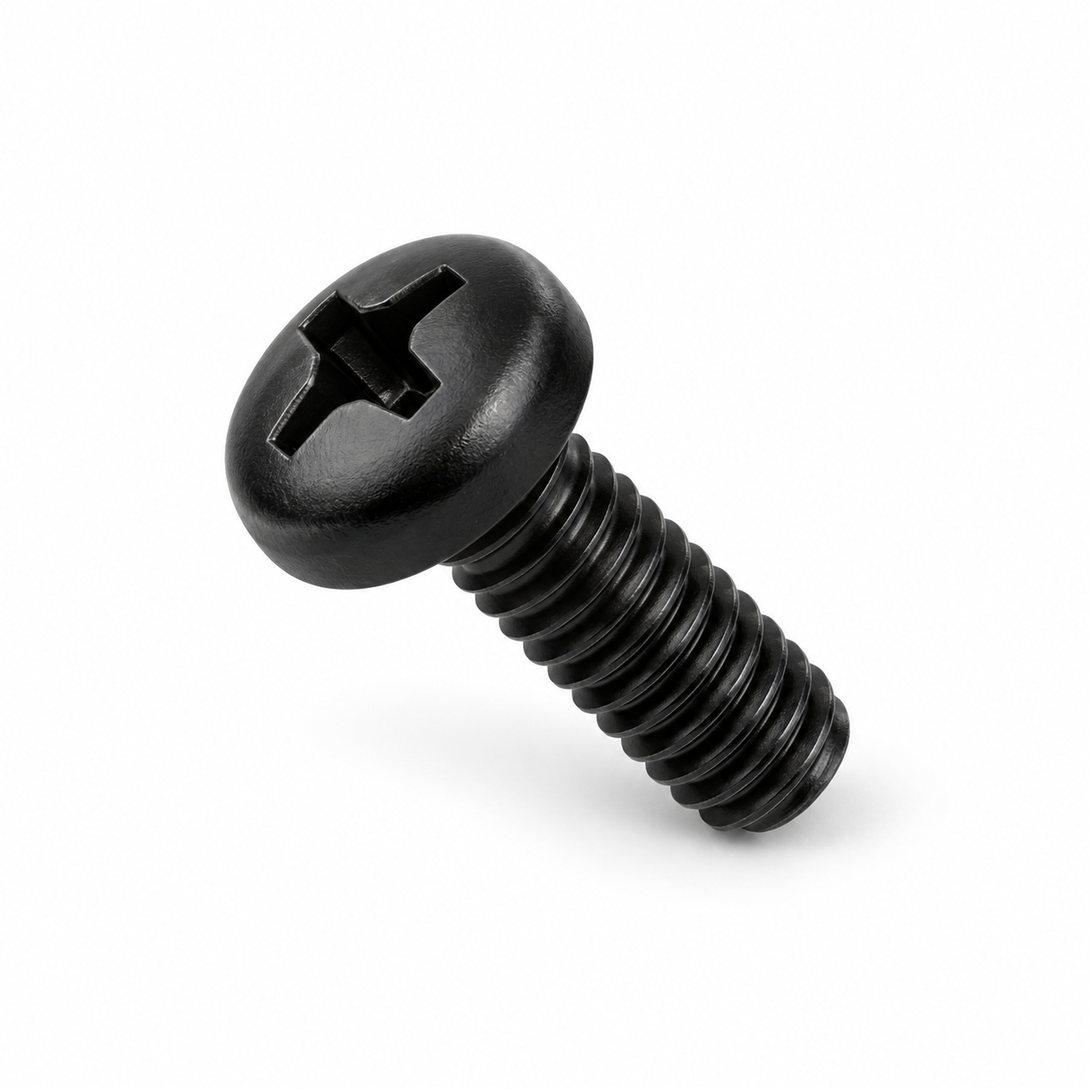
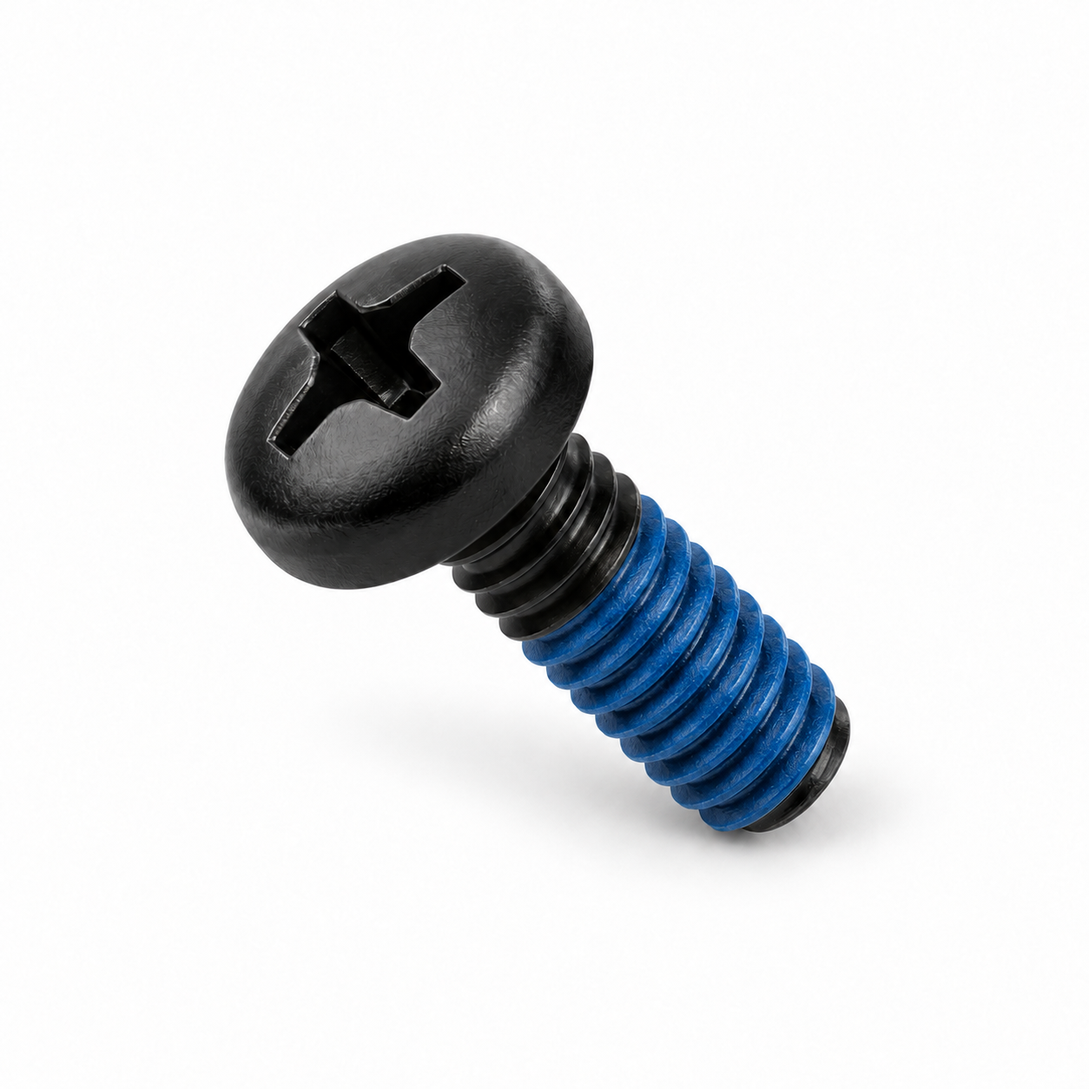
Sort BOM fasteners and complete their illustrations
Group socket-head and Phillips screws by descending length, followed by
nuts and washers, across all three bilingual hardware BOMs. Preserve
quantities and renumber the reordered items.

Add five shared fastener illustrations, identify PB2.0 x 5 as pan-head,
and depict blue pre-applied threadlocker on the lower two-thirds of the
M2 x 4.5 screw threads with matching English and Chinese descriptions.

Validation: check_docs.py, check_readme_sync.py, staged diff whitespace,
fastener order and quantity checks, and visual review of all six images.

diff --git a/hardware/102-fl/README.md b/hardware/102-fl/README.md
@@ -36,7 +36,7 @@ The table below lists **29 assembly items** for 102-FL. Missing images are marke
 
 Printed-part identifiers in Model / Specification match the STEP, STL, and individual 3MF filenames (without extensions). Print settings in this BOM are references pending physical print validation. The BOM specifies 5 wall loops / 50% infill for link1, while the supplied 3MF uses 2 / 15%; confirm before printing.
 
-Screw images are AI-generated illustrations; refer to the table text for specifications. Click an image to enlarge it.
+Fastener images are AI-generated illustrations; refer to the table text for specifications. Click an image to enlarge it.
 
 | No. | Part Name | Model / Specification | Image | Description | Quantity |
 | :---: | --- | --- | :---: | --- | :---: |
@@ -59,15 +59,15 @@ Screw images are AI-generated illustrations; refer to the table text for specifi
 | 17 | Circuit board | UC-01 | <img src="../../media/uc-01-primary.webp" alt="UC-01" width="90"> | XT30 connector | 1 |
 | 18 | Servo cable | PH2.0 (PH-3Y)<br>120 mm | <a href="../../media/ph-3y-servo-cable-120mm.png"><img src="../../media/ph-3y-servo-cable-120mm.png" alt="PH2.0 120 mm servo cable" width="90"></a> | Black silicone-insulated ribbon cable with black braided sleeving; reversed pin order between ends; 60 × Ø0.08 mm strands per conductor (approx. 22 AWG) | 4 |
 | 19 | Servo cable | PH2.0 (PH-3Y)<br>200 mm | <a href="../../media/ph-3y-servo-cable-200mm.png"><img src="../../media/ph-3y-servo-cable-200mm.png" alt="PH2.0 200 mm servo cable" width="90"></a> | Black silicone-insulated ribbon cable with black braided sleeving; reversed pin order between ends; 60 × Ø0.08 mm strands per conductor (approx. 22 AWG) | 3 |
-| 20 | Socket-head cap screw | M3 × 10 | <a href="../../media/fasteners/m3-10-socket-head-cap-screw.png"><img src="../../media/fasteners/m3-10-socket-head-cap-screw.png" alt="M3 × 10 socket-head cap screw illustration" width="90"></a> | Black finish, property class 12.9 | 1 |
-| 21 | Socket-head cap screw | M3 × 22 | <a href="../../media/fasteners/m3-22-socket-head-cap-screw.png"><img src="../../media/fasteners/m3-22-socket-head-cap-screw.png" alt="M3 × 22 socket-head cap screw illustration" width="90"></a> | Black finish | 4 |
-| 22 | Phillips pan-head screw | M3 × 10 | Pending | Black finish, hardened | 1 |
-| 23 | Phillips self-tapping screw | PB2.0 × 5 | Pending | Black finish, hardened | 30 |
-| 24 | Phillips pan-head screw | M2 × 4.5 | <a href="../../media/fasteners/m2-4-5-phillips-pan-head-screw.png"><img src="../../media/fasteners/m2-4-5-phillips-pan-head-screw.png" alt="M2 × 4.5 Phillips pan-head screw illustration" width="90"></a> | Black finish, pre-applied threadlocker | 47 |
-| 25 | Socket-head cap screw | M2 × 10 | Pending | Black finish | 8 |
-| 26 | Socket-head cap screw | M2 × 8 | <a href="../../media/fasteners/m2-8-socket-head-cap-screw.png"><img src="../../media/fasteners/m2-8-socket-head-cap-screw.png" alt="M2 × 8 socket-head cap screw illustration" width="90"></a> | Black finish | 16 |
-| 27 | Phillips flat-head self-tapping screw | 3 × 12 mm | <a href="../../media/fasteners/3-12-phillips-flat-head-self-tapping-screw.png"><img src="../../media/fasteners/3-12-phillips-flat-head-self-tapping-screw.png" alt="3 × 12 mm Phillips flat-head self-tapping screw illustration" width="90"></a> | Silver finish | 2 |
-| 28 | Nut | M3 | Pending | Black finish | 6 |
-| 29 | Washer | M3 (3 × 6 × 0.5 mm) | Pending | Stainless steel | 2 |
+| 20 | Socket-head cap screw | M3 × 22 | <a href="../../media/fasteners/m3-22-socket-head-cap-screw.png"><img src="../../media/fasteners/m3-22-socket-head-cap-screw.png" alt="M3 × 22 socket-head cap screw illustration" width="90"></a> | Black finish | 4 |
+| 21 | Socket-head cap screw | M3 × 10 | <a href="../../media/fasteners/m3-10-socket-head-cap-screw.png"><img src="../../media/fasteners/m3-10-socket-head-cap-screw.png" alt="M3 × 10 socket-head cap screw illustration" width="90"></a> | Black finish, property class 12.9 | 1 |
+| 22 | Socket-head cap screw | M2 × 10 | <a href="../../media/fasteners/m2-10-socket-head-cap-screw.png"><img src="../../media/fasteners/m2-10-socket-head-cap-screw.png" alt="M2 × 10 Socket-head cap screw illustration" width="90"></a> | Black finish | 8 |
+| 23 | Socket-head cap screw | M2 × 8 | <a href="../../media/fasteners/m2-8-socket-head-cap-screw.png"><img src="../../media/fasteners/m2-8-socket-head-cap-screw.png" alt="M2 × 8 socket-head cap screw illustration" width="90"></a> | Black finish | 16 |
+| 24 | Phillips flat-head self-tapping screw | 3 × 12 mm | <a href="../../media/fasteners/3-12-phillips-flat-head-self-tapping-screw.png"><img src="../../media/fasteners/3-12-phillips-flat-head-self-tapping-screw.png" alt="3 × 12 mm Phillips flat-head self-tapping screw illustration" width="90"></a> | Silver finish | 2 |
+| 25 | Phillips pan-head screw | M3 × 10 | <a href="../../media/fasteners/m3-10-phillips-pan-head-screw.png"><img src="../../media/fasteners/m3-10-phillips-pan-head-screw.png" alt="M3 × 10 Phillips pan-head screw illustration" width="90"></a> | Black finish, hardened | 1 |
+| 26 | Phillips pan-head self-tapping screw | PB2.0 × 5 | <a href="../../media/fasteners/pb2-5-phillips-pan-head-self-tapping-screw.png"><img src="../../media/fasteners/pb2-5-phillips-pan-head-self-tapping-screw.png" alt="PB2.0 × 5 Phillips pan-head self-tapping screw illustration" width="90"></a> | Black finish, hardened | 30 |
+| 27 | Phillips pan-head screw | M2 × 4.5 | <a href="../../media/fasteners/m2-4-5-phillips-pan-head-screw.png"><img src="../../media/fasteners/m2-4-5-phillips-pan-head-screw.png" alt="M2 × 4.5 Phillips pan-head screw illustration" width="90"></a> | Black finish; blue pre-applied threadlocker on the lower two-thirds of the threaded shank (toward the tip) | 47 |
+| 28 | Nut | M3 | <a href="../../media/fasteners/m3-nut.png"><img src="../../media/fasteners/m3-nut.png" alt="M3 Nut illustration" width="90"></a> | Black finish | 6 |
+| 29 | Washer | M3 (3 × 6 × 0.5 mm) | <a href="../../media/fasteners/m3-6-0-5-stainless-washer.png"><img src="../../media/fasteners/m3-6-0-5-stainless-washer.png" alt="M3 (3 × 6 × 0.5 mm) Washer illustration" width="90"></a> | Stainless steel | 2 |
 
 Found an error in these resources or need help? Contact our [Support Hub](https://fashionstar.com.hk/support/) with your model and the relevant file or item.

diff --git a/hardware/102-hd/README.md b/hardware/102-hd/README.md
@@ -36,7 +36,7 @@ The table below lists **31 assembly items** for 102-HD. Missing images are marke
 
 Printed-part identifiers in Model / Specification match the STEP, STL, and individual 3MF filenames (without extensions). Print settings in this BOM are references pending physical print validation.
 
-Screw images are AI-generated illustrations; refer to the table text for specifications. Click an image to enlarge it.
+Fastener images are AI-generated illustrations; refer to the table text for specifications. Click an image to enlarge it.
 
 | No. | Part Name | Model / Specification | Image | Description | Quantity |
 | :---: | --- | --- | :---: | --- | :---: |
@@ -61,15 +61,15 @@ Screw images are AI-generated illustrations; refer to the table text for specifi
 | 19 | Thrust needle roller bearing | AXK2035+2AS | <img src="../../media/axk2035-2as-bearing.png" alt="AXK2035+2AS thrust needle roller bearing" width="90"> | inner diameter 20 mm, outer diameter 35 mm, thickness 4 mm | 1 |
 | 20 | Servo cable | PH2.0 (PH-3Y)<br>120 mm | <a href="../../media/ph-3y-servo-cable-120mm.png"><img src="../../media/ph-3y-servo-cable-120mm.png" alt="PH2.0 120 mm servo cable" width="90"></a> | Black silicone-insulated ribbon cable with black braided sleeving; reversed pin order between ends; 60 × Ø0.08 mm strands per conductor (approx. 22 AWG) | 6 |
 | 21 | Servo cable | PH2.0 (PH-3Y)<br>200 mm | <a href="../../media/ph-3y-servo-cable-200mm.png"><img src="../../media/ph-3y-servo-cable-200mm.png" alt="PH2.0 200 mm servo cable" width="90"></a> | Black silicone-insulated ribbon cable with black braided sleeving; reversed pin order between ends; 60 × Ø0.08 mm strands per conductor (approx. 22 AWG) | 2 |
-| 22 | Socket-head cap screw | M3 × 10 | <a href="../../media/fasteners/m3-10-socket-head-cap-screw.png"><img src="../../media/fasteners/m3-10-socket-head-cap-screw.png" alt="M3 × 10 socket-head cap screw illustration" width="90"></a> | Black finish, property class 12.9 | 1 |
-| 23 | Socket-head cap screw | M3 × 22 | <a href="../../media/fasteners/m3-22-socket-head-cap-screw.png"><img src="../../media/fasteners/m3-22-socket-head-cap-screw.png" alt="M3 × 22 socket-head cap screw illustration" width="90"></a> | Black finish | 4 |
-| 24 | Phillips pan-head screw | M3 × 10 | Pending | Black finish, hardened | 1 |
-| 25 | Phillips self-tapping screw | PB2.0 × 5 | Pending | Black finish, hardened | 46 |
-| 26 | Phillips pan-head screw | M2 × 4.5 | <a href="../../media/fasteners/m2-4-5-phillips-pan-head-screw.png"><img src="../../media/fasteners/m2-4-5-phillips-pan-head-screw.png" alt="M2 × 4.5 Phillips pan-head screw illustration" width="90"></a> | Black finish, pre-applied threadlocker | 35 |
-| 27 | Socket-head cap screw | M2 × 10 | Pending | Black finish | 8 |
-| 28 | Socket-head cap screw | M2 × 8 | <a href="../../media/fasteners/m2-8-socket-head-cap-screw.png"><img src="../../media/fasteners/m2-8-socket-head-cap-screw.png" alt="M2 × 8 socket-head cap screw illustration" width="90"></a> | Black finish | 8 |
-| 29 | Phillips flat-head self-tapping screw | 3 × 12 mm | <a href="../../media/fasteners/3-12-phillips-flat-head-self-tapping-screw.png"><img src="../../media/fasteners/3-12-phillips-flat-head-self-tapping-screw.png" alt="3 × 12 mm Phillips flat-head self-tapping screw illustration" width="90"></a> | Silver finish | 2 |
-| 30 | Nut | M3 | Pending | Black finish | 5 |
-| 31 | Washer | M3 (3 × 6 × 0.5 mm) | Pending | Stainless steel | 1 |
+| 22 | Socket-head cap screw | M3 × 22 | <a href="../../media/fasteners/m3-22-socket-head-cap-screw.png"><img src="../../media/fasteners/m3-22-socket-head-cap-screw.png" alt="M3 × 22 socket-head cap screw illustration" width="90"></a> | Black finish | 4 |
+| 23 | Socket-head cap screw | M3 × 10 | <a href="../../media/fasteners/m3-10-socket-head-cap-screw.png"><img src="../../media/fasteners/m3-10-socket-head-cap-screw.png" alt="M3 × 10 socket-head cap screw illustration" width="90"></a> | Black finish, property class 12.9 | 1 |
+| 24 | Socket-head cap screw | M2 × 10 | <a href="../../media/fasteners/m2-10-socket-head-cap-screw.png"><img src="../../media/fasteners/m2-10-socket-head-cap-screw.png" alt="M2 × 10 Socket-head cap screw illustration" width="90"></a> | Black finish | 8 |
+| 25 | Socket-head cap screw | M2 × 8 | <a href="../../media/fasteners/m2-8-socket-head-cap-screw.png"><img src="../../media/fasteners/m2-8-socket-head-cap-screw.png" alt="M2 × 8 socket-head cap screw illustration" width="90"></a> | Black finish | 8 |
+| 26 | Phillips flat-head self-tapping screw | 3 × 12 mm | <a href="../../media/fasteners/3-12-phillips-flat-head-self-tapping-screw.png"><img src="../../media/fasteners/3-12-phillips-flat-head-self-tapping-screw.png" alt="3 × 12 mm Phillips flat-head self-tapping screw illustration" width="90"></a> | Silver finish | 2 |
+| 27 | Phillips pan-head screw | M3 × 10 | <a href="../../media/fasteners/m3-10-phillips-pan-head-screw.png"><img src="../../media/fasteners/m3-10-phillips-pan-head-screw.png" alt="M3 × 10 Phillips pan-head screw illustration" width="90"></a> | Black finish, hardened | 1 |
+| 28 | Phillips pan-head self-tapping screw | PB2.0 × 5 | <a href="../../media/fasteners/pb2-5-phillips-pan-head-self-tapping-screw.png"><img src="../../media/fasteners/pb2-5-phillips-pan-head-self-tapping-screw.png" alt="PB2.0 × 5 Phillips pan-head self-tapping screw illustration" width="90"></a> | Black finish, hardened | 46 |
+| 29 | Phillips pan-head screw | M2 × 4.5 | <a href="../../media/fasteners/m2-4-5-phillips-pan-head-screw.png"><img src="../../media/fasteners/m2-4-5-phillips-pan-head-screw.png" alt="M2 × 4.5 Phillips pan-head screw illustration" width="90"></a> | Black finish; blue pre-applied threadlocker on the lower two-thirds of the threaded shank (toward the tip) | 35 |
+| 30 | Nut | M3 | <a href="../../media/fasteners/m3-nut.png"><img src="../../media/fasteners/m3-nut.png" alt="M3 Nut illustration" width="90"></a> | Black finish | 5 |
+| 31 | Washer | M3 (3 × 6 × 0.5 mm) | <a href="../../media/fasteners/m3-6-0-5-stainless-washer.png"><img src="../../media/fasteners/m3-6-0-5-stainless-washer.png" alt="M3 (3 × 6 × 0.5 mm) Washer illustration" width="90"></a> | Stainless steel | 1 |
 
 Found an error in these resources or need help? Contact our [Support Hub](https://fashionstar.com.hk/support/) with your model and the relevant file or item.

diff --git a/hardware/102-ld/README.md b/hardware/102-ld/README.md
@@ -36,7 +36,7 @@ The table below lists **28 assembly items** for 102-LD. Missing images are marke
 
 Printed-part identifiers in Model / Specification match the STEP, STL, and individual 3MF filenames (without extensions). Print settings in this BOM are references pending physical print validation.
 
-Screw images are AI-generated illustrations; refer to the table text for specifications. Click an image to enlarge it.
+Fastener images are AI-generated illustrations; refer to the table text for specifications. Click an image to enlarge it.
 
 | No. | Part Name | Model / Specification | Image | Description | Quantity |
 | :---: | --- | --- | :---: | --- | :---: |
@@ -58,15 +58,15 @@ Screw images are AI-generated illustrations; refer to the table text for specifi
 | 16 | Circuit board | UC-01 | <img src="../../media/uc-01-primary.webp" alt="UC-01" width="90"> | DC power lead: 0.75 mm², 5.5 × 2.1 mm female, 0.15 m | 1 |
 | 17 | Servo cable | PH2.0 (PH-3Y)<br>120 mm | <a href="../../media/ph-3y-servo-cable-120mm.png"><img src="../../media/ph-3y-servo-cable-120mm.png" alt="PH2.0 120 mm servo cable" width="90"></a> | Black silicone-insulated ribbon cable with black braided sleeving; reversed pin order between ends; 60 × Ø0.08 mm strands per conductor (approx. 22 AWG) | 5 |
 | 18 | Servo cable | PH2.0 (PH-3Y)<br>200 mm | <a href="../../media/ph-3y-servo-cable-200mm.png"><img src="../../media/ph-3y-servo-cable-200mm.png" alt="PH2.0 200 mm servo cable" width="90"></a> | Black silicone-insulated ribbon cable with black braided sleeving; reversed pin order between ends; 60 × Ø0.08 mm strands per conductor (approx. 22 AWG) | 2 |
-| 19 | Socket-head cap screw | M3 × 10 | <a href="../../media/fasteners/m3-10-socket-head-cap-screw.png"><img src="../../media/fasteners/m3-10-socket-head-cap-screw.png" alt="M3 × 10 socket-head cap screw illustration" width="90"></a> | Black finish, property class 12.9 | 1 |
-| 20 | Socket-head cap screw | M3 × 22 | <a href="../../media/fasteners/m3-22-socket-head-cap-screw.png"><img src="../../media/fasteners/m3-22-socket-head-cap-screw.png" alt="M3 × 22 socket-head cap screw illustration" width="90"></a> | Black finish | 4 |
-| 21 | Phillips pan-head screw | M3 × 10 | Pending | Black finish, hardened | 1 |
-| 22 | Phillips self-tapping screw | PB2.0 × 5 | Pending | Black finish, hardened | 39 |
-| 23 | Phillips pan-head screw | M2 × 4.5 | <a href="../../media/fasteners/m2-4-5-phillips-pan-head-screw.png"><img src="../../media/fasteners/m2-4-5-phillips-pan-head-screw.png" alt="M2 × 4.5 Phillips pan-head screw illustration" width="90"></a> | Black finish, pre-applied threadlocker | 35 |
-| 24 | Socket-head cap screw | M2 × 8 | <a href="../../media/fasteners/m2-8-socket-head-cap-screw.png"><img src="../../media/fasteners/m2-8-socket-head-cap-screw.png" alt="M2 × 8 socket-head cap screw illustration" width="90"></a> | Black finish | 16 |
-| 25 | Socket-head cap screw | M2 × 10 | Pending | Black finish | 8 |
-| 26 | Phillips flat-head self-tapping screw | 3 × 12 mm | <a href="../../media/fasteners/3-12-phillips-flat-head-self-tapping-screw.png"><img src="../../media/fasteners/3-12-phillips-flat-head-self-tapping-screw.png" alt="3 × 12 mm Phillips flat-head self-tapping screw illustration" width="90"></a> | Silver finish | 2 |
-| 27 | Nut | M3 | Pending | Black finish | 5 |
-| 28 | Washer | M3 (3 × 6 × 0.5 mm) | Pending | Stainless steel | 1 |
+| 19 | Socket-head cap screw | M3 × 22 | <a href="../../media/fasteners/m3-22-socket-head-cap-screw.png"><img src="../../media/fasteners/m3-22-socket-head-cap-screw.png" alt="M3 × 22 socket-head cap screw illustration" width="90"></a> | Black finish | 4 |
+| 20 | Socket-head cap screw | M3 × 10 | <a href="../../media/fasteners/m3-10-socket-head-cap-screw.png"><img src="../../media/fasteners/m3-10-socket-head-cap-screw.png" alt="M3 × 10 socket-head cap screw illustration" width="90"></a> | Black finish, property class 12.9 | 1 |
+| 21 | Socket-head cap screw | M2 × 10 | <a href="../../media/fasteners/m2-10-socket-head-cap-screw.png"><img src="../../media/fasteners/m2-10-socket-head-cap-screw.png" alt="M2 × 10 Socket-head cap screw illustration" width="90"></a> | Black finish | 8 |
+| 22 | Socket-head cap screw | M2 × 8 | <a href="../../media/fasteners/m2-8-socket-head-cap-screw.png"><img src="../../media/fasteners/m2-8-socket-head-cap-screw.png" alt="M2 × 8 socket-head cap screw illustration" width="90"></a> | Black finish | 16 |
+| 23 | Phillips flat-head self-tapping screw | 3 × 12 mm | <a href="../../media/fasteners/3-12-phillips-flat-head-self-tapping-screw.png"><img src="../../media/fasteners/3-12-phillips-flat-head-self-tapping-screw.png" alt="3 × 12 mm Phillips flat-head self-tapping screw illustration" width="90"></a> | Silver finish | 2 |
+| 24 | Phillips pan-head screw | M3 × 10 | <a href="../../media/fasteners/m3-10-phillips-pan-head-screw.png"><img src="../../media/fasteners/m3-10-phillips-pan-head-screw.png" alt="M3 × 10 Phillips pan-head screw illustration" width="90"></a> | Black finish, hardened | 1 |
+| 25 | Phillips pan-head self-tapping screw | PB2.0 × 5 | <a href="../../media/fasteners/pb2-5-phillips-pan-head-self-tapping-screw.png"><img src="../../media/fasteners/pb2-5-phillips-pan-head-self-tapping-screw.png" alt="PB2.0 × 5 Phillips pan-head self-tapping screw illustration" width="90"></a> | Black finish, hardened | 39 |
+| 26 | Phillips pan-head screw | M2 × 4.5 | <a href="../../media/fasteners/m2-4-5-phillips-pan-head-screw.png"><img src="../../media/fasteners/m2-4-5-phillips-pan-head-screw.png" alt="M2 × 4.5 Phillips pan-head screw illustration" width="90"></a> | Black finish; blue pre-applied threadlocker on the lower two-thirds of the threaded shank (toward the tip) | 35 |
+| 27 | Nut | M3 | <a href="../../media/fasteners/m3-nut.png"><img src="../../media/fasteners/m3-nut.png" alt="M3 Nut illustration" width="90"></a> | Black finish | 5 |
+| 28 | Washer | M3 (3 × 6 × 0.5 mm) | <a href="../../media/fasteners/m3-6-0-5-stainless-washer.png"><img src="../../media/fasteners/m3-6-0-5-stainless-washer.png" alt="M3 (3 × 6 × 0.5 mm) Washer illustration" width="90"></a> | Stainless steel | 1 |
 
 Found an error in these resources or need help? Contact our [Support Hub](https://fashionstar.com.hk/support/) with your model and the relevant file or item.

diff --git a/hardware/102-fl/README.zh.md b/hardware/102-fl/README.zh.md
@@ -36,7 +36,7 @@
 
 打印件的“型号／规格”与 STEP、STL 及独立 3MF 的文件名主体一致（不含扩展名）。BOM 中的打印参数仅供参考，尚未完成实物打印验证。link1 的 BOM 参数为壁数 5／填充 50%，而原 3MF 为壁数 2／填充 15%，打印前需确认。
 
-螺钉图片为 AI 生成的外观示意图，规格以表格文字为准；点击图片可放大查看。
+紧固件图片为 AI 生成的外观示意图，规格以表格文字为准；点击图片可放大查看。
 
 | 序号 | 品名 | 型号／规格 | 图片 | 描述 | 数量 |
 | :---: | --- | --- | :---: | --- | :---: |
@@ -59,15 +59,15 @@
 | 17 | 电路板 | UC-01 | <img src="../../media/uc-01-primary.webp" alt="UC-01" width="90"> | XT30 接口 | 1 |
 | 18 | 舵机连接线 | PH2.0 (PH-3Y)<br>120 mm | <a href="../../media/ph-3y-servo-cable-120mm.png"><img src="../../media/ph-3y-servo-cable-120mm.png" alt="PH2.0 120 mm 舵机连接线" width="90"></a> | 黑色硅胶绝缘排线，外覆黑色编织护套；两端线序反向；每根导体 60 × Ø0.08 mm（约 22 AWG） | 4 |
 | 19 | 舵机连接线 | PH2.0 (PH-3Y)<br>200 mm | <a href="../../media/ph-3y-servo-cable-200mm.png"><img src="../../media/ph-3y-servo-cable-200mm.png" alt="PH2.0 200 mm 舵机连接线" width="90"></a> | 黑色硅胶绝缘排线，外覆黑色编织护套；两端线序反向；每根导体 60 × Ø0.08 mm（约 22 AWG） | 3 |
-| 20 | 内六角圆柱头螺钉 | M3 × 10 | <a href="../../media/fasteners/m3-10-socket-head-cap-screw.png"><img src="../../media/fasteners/m3-10-socket-head-cap-screw.png" alt="M3 × 10 内六角圆柱头螺钉示意图" width="90"></a> | 黑色表面，强度等级 12.9 | 1 |
-| 21 | 内六角圆柱头螺钉 | M3 × 22 | <a href="../../media/fasteners/m3-22-socket-head-cap-screw.png"><img src="../../media/fasteners/m3-22-socket-head-cap-screw.png" alt="M3 × 22 内六角圆柱头螺钉示意图" width="90"></a> | 黑色表面 | 4 |
-| 22 | 十字槽盘头螺钉 | M3 × 10 | 待补 | 黑色表面，加硬 | 1 |
-| 23 | 十字槽自攻螺钉 | PB2.0 × 5 | 待补 | 黑色表面，加硬 | 30 |
-| 24 | 十字槽盘头螺钉 | M2 × 4.5 | <a href="../../media/fasteners/m2-4-5-phillips-pan-head-screw.png"><img src="../../media/fasteners/m2-4-5-phillips-pan-head-screw.png" alt="M2 × 4.5 十字槽盘头螺钉示意图" width="90"></a> | 黑色表面，螺纹预涂锁固胶 | 47 |
-| 25 | 内六角圆柱头螺钉 | M2 × 10 | 待补 | 黑色表面 | 8 |
-| 26 | 内六角圆柱头螺钉 | M2 × 8 | <a href="../../media/fasteners/m2-8-socket-head-cap-screw.png"><img src="../../media/fasteners/m2-8-socket-head-cap-screw.png" alt="M2 × 8 内六角圆柱头螺钉示意图" width="90"></a> | 黑色表面 | 16 |
-| 27 | 十字槽沉头自攻螺钉 | 3 × 12 mm | <a href="../../media/fasteners/3-12-phillips-flat-head-self-tapping-screw.png"><img src="../../media/fasteners/3-12-phillips-flat-head-self-tapping-screw.png" alt="3 × 12 mm 十字槽沉头自攻螺钉示意图" width="90"></a> | 银色表面 | 2 |
-| 28 | 螺母 | M3 | 待补 | 黑色表面 | 6 |
-| 29 | 垫片 | M3（3 × 6 × 0.5 mm） | 待补 | 不锈钢 | 2 |
+| 20 | 内六角圆柱头螺钉 | M3 × 22 | <a href="../../media/fasteners/m3-22-socket-head-cap-screw.png"><img src="../../media/fasteners/m3-22-socket-head-cap-screw.png" alt="M3 × 22 内六角圆柱头螺钉示意图" width="90"></a> | 黑色表面 | 4 |
+| 21 | 内六角圆柱头螺钉 | M3 × 10 | <a href="../../media/fasteners/m3-10-socket-head-cap-screw.png"><img src="../../media/fasteners/m3-10-socket-head-cap-screw.png" alt="M3 × 10 内六角圆柱头螺钉示意图" width="90"></a> | 黑色表面，强度等级 12.9 | 1 |
+| 22 | 内六角圆柱头螺钉 | M2 × 10 | <a href="../../media/fasteners/m2-10-socket-head-cap-screw.png"><img src="../../media/fasteners/m2-10-socket-head-cap-screw.png" alt="M2 × 10 内六角圆柱头螺钉示意图" width="90"></a> | 黑色表面 | 8 |
+| 23 | 内六角圆柱头螺钉 | M2 × 8 | <a href="../../media/fasteners/m2-8-socket-head-cap-screw.png"><img src="../../media/fasteners/m2-8-socket-head-cap-screw.png" alt="M2 × 8 内六角圆柱头螺钉示意图" width="90"></a> | 黑色表面 | 16 |
+| 24 | 十字槽沉头自攻螺钉 | 3 × 12 mm | <a href="../../media/fasteners/3-12-phillips-flat-head-self-tapping-screw.png"><img src="../../media/fasteners/3-12-phillips-flat-head-self-tapping-screw.png" alt="3 × 12 mm 十字槽沉头自攻螺钉示意图" width="90"></a> | 银色表面 | 2 |
+| 25 | 十字槽盘头螺钉 | M3 × 10 | <a href="../../media/fasteners/m3-10-phillips-pan-head-screw.png"><img src="../../media/fasteners/m3-10-phillips-pan-head-screw.png" alt="M3 × 10 十字槽盘头螺钉示意图" width="90"></a> | 黑色表面，加硬 | 1 |
+| 26 | 十字槽盘头自攻螺钉 | PB2.0 × 5 | <a href="../../media/fasteners/pb2-5-phillips-pan-head-self-tapping-screw.png"><img src="../../media/fasteners/pb2-5-phillips-pan-head-self-tapping-screw.png" alt="PB2.0 × 5 十字槽盘头自攻螺钉示意图" width="90"></a> | 黑色表面，加硬 | 30 |
+| 27 | 十字槽盘头螺钉 | M2 × 4.5 | <a href="../../media/fasteners/m2-4-5-phillips-pan-head-screw.png"><img src="../../media/fasteners/m2-4-5-phillips-pan-head-screw.png" alt="M2 × 4.5 十字槽盘头螺钉示意图" width="90"></a> | 黑色表面；靠近末端的约 2/3 螺纹段预涂蓝色锁固胶 | 47 |
+| 28 | 螺母 | M3 | <a href="../../media/fasteners/m3-nut.png"><img src="../../media/fasteners/m3-nut.png" alt="M3 螺母示意图" width="90"></a> | 黑色表面 | 6 |
+| 29 | 垫片 | M3（3 × 6 × 0.5 mm） | <a href="../../media/fasteners/m3-6-0-5-stainless-washer.png"><img src="../../media/fasteners/m3-6-0-5-stainless-washer.png" alt="M3（3 × 6 × 0.5 mm） 垫片示意图" width="90"></a> | 不锈钢 | 2 |
 
 发现资料错误或需要帮助？请通过 [Support 支持中心](https://fashionstar.com.hk/support/) 联系我们，并注明型号及对应文件或条目。

diff --git a/hardware/102-hd/README.zh.md b/hardware/102-hd/README.zh.md
@@ -36,7 +36,7 @@
 
 打印件的“型号／规格”与 STEP、STL 及独立 3MF 的文件名主体一致（不含扩展名）。BOM 中的打印参数仅供参考，尚未完成实物打印验证。
 
-螺钉图片为 AI 生成的外观示意图，规格以表格文字为准；点击图片可放大查看。
+紧固件图片为 AI 生成的外观示意图，规格以表格文字为准；点击图片可放大查看。
 
 | 序号 | 品名 | 型号／规格 | 图片 | 描述 | 数量 |
 | :---: | --- | --- | :---: | --- | :---: |
@@ -61,15 +61,15 @@
 | 19 | 推力滚针轴承 | AXK2035+2AS | <img src="../../media/axk2035-2as-bearing.png" alt="AXK2035+2AS 滚针轴承" width="90"> | 内径 20 mm，外径 35 mm，厚度 4 mm | 1 |
 | 20 | 舵机连接线 | PH2.0 (PH-3Y)<br>120 mm | <a href="../../media/ph-3y-servo-cable-120mm.png"><img src="../../media/ph-3y-servo-cable-120mm.png" alt="PH2.0 120 mm 舵机连接线" width="90"></a> | 黑色硅胶绝缘排线，外覆黑色编织护套；两端线序反向；每根导体 60 × Ø0.08 mm（约 22 AWG） | 6 |
 | 21 | 舵机连接线 | PH2.0 (PH-3Y)<br>200 mm | <a href="../../media/ph-3y-servo-cable-200mm.png"><img src="../../media/ph-3y-servo-cable-200mm.png" alt="PH2.0 200 mm 舵机连接线" width="90"></a> | 黑色硅胶绝缘排线，外覆黑色编织护套；两端线序反向；每根导体 60 × Ø0.08 mm（约 22 AWG） | 2 |
-| 22 | 内六角圆柱头螺钉 | M3 × 10 | <a href="../../media/fasteners/m3-10-socket-head-cap-screw.png"><img src="../../media/fasteners/m3-10-socket-head-cap-screw.png" alt="M3 × 10 内六角圆柱头螺钉示意图" width="90"></a> | 黑色表面，强度等级 12.9 | 1 |
-| 23 | 内六角圆柱头螺钉 | M3 × 22 | <a href="../../media/fasteners/m3-22-socket-head-cap-screw.png"><img src="../../media/fasteners/m3-22-socket-head-cap-screw.png" alt="M3 × 22 内六角圆柱头螺钉示意图" width="90"></a> | 黑色表面 | 4 |
-| 24 | 十字槽盘头螺钉 | M3 × 10 | 待补 | 黑色表面，加硬 | 1 |
-| 25 | 十字槽自攻螺钉 | PB2.0 × 5 | 待补 | 黑色表面，加硬 | 46 |
-| 26 | 十字槽盘头螺钉 | M2 × 4.5 | <a href="../../media/fasteners/m2-4-5-phillips-pan-head-screw.png"><img src="../../media/fasteners/m2-4-5-phillips-pan-head-screw.png" alt="M2 × 4.5 十字槽盘头螺钉示意图" width="90"></a> | 黑色表面，螺纹预涂锁固胶 | 35 |
-| 27 | 内六角圆柱头螺钉 | M2 × 10 | 待补 | 黑色表面 | 8 |
-| 28 | 内六角圆柱头螺钉 | M2 × 8 | <a href="../../media/fasteners/m2-8-socket-head-cap-screw.png"><img src="../../media/fasteners/m2-8-socket-head-cap-screw.png" alt="M2 × 8 内六角圆柱头螺钉示意图" width="90"></a> | 黑色表面 | 8 |
-| 29 | 十字槽沉头自攻螺钉 | 3 × 12 mm | <a href="../../media/fasteners/3-12-phillips-flat-head-self-tapping-screw.png"><img src="../../media/fasteners/3-12-phillips-flat-head-self-tapping-screw.png" alt="3 × 12 mm 十字槽沉头自攻螺钉示意图" width="90"></a> | 银色表面 | 2 |
-| 30 | 螺母 | M3 | 待补 | 黑色表面 | 5 |
-| 31 | 垫片 | M3（3 × 6 × 0.5 mm） | 待补 | 不锈钢 | 1 |
+| 22 | 内六角圆柱头螺钉 | M3 × 22 | <a href="../../media/fasteners/m3-22-socket-head-cap-screw.png"><img src="../../media/fasteners/m3-22-socket-head-cap-screw.png" alt="M3 × 22 内六角圆柱头螺钉示意图" width="90"></a> | 黑色表面 | 4 |
+| 23 | 内六角圆柱头螺钉 | M3 × 10 | <a href="../../media/fasteners/m3-10-socket-head-cap-screw.png"><img src="../../media/fasteners/m3-10-socket-head-cap-screw.png" alt="M3 × 10 内六角圆柱头螺钉示意图" width="90"></a> | 黑色表面，强度等级 12.9 | 1 |
+| 24 | 内六角圆柱头螺钉 | M2 × 10 | <a href="../../media/fasteners/m2-10-socket-head-cap-screw.png"><img src="../../media/fasteners/m2-10-socket-head-cap-screw.png" alt="M2 × 10 内六角圆柱头螺钉示意图" width="90"></a> | 黑色表面 | 8 |
+| 25 | 内六角圆柱头螺钉 | M2 × 8 | <a href="../../media/fasteners/m2-8-socket-head-cap-screw.png"><img src="../../media/fasteners/m2-8-socket-head-cap-screw.png" alt="M2 × 8 内六角圆柱头螺钉示意图" width="90"></a> | 黑色表面 | 8 |
+| 26 | 十字槽沉头自攻螺钉 | 3 × 12 mm | <a href="../../media/fasteners/3-12-phillips-flat-head-self-tapping-screw.png"><img src="../../media/fasteners/3-12-phillips-flat-head-self-tapping-screw.png" alt="3 × 12 mm 十字槽沉头自攻螺钉示意图" width="90"></a> | 银色表面 | 2 |
+| 27 | 十字槽盘头螺钉 | M3 × 10 | <a href="../../media/fasteners/m3-10-phillips-pan-head-screw.png"><img src="../../media/fasteners/m3-10-phillips-pan-head-screw.png" alt="M3 × 10 十字槽盘头螺钉示意图" width="90"></a> | 黑色表面，加硬 | 1 |
+| 28 | 十字槽盘头自攻螺钉 | PB2.0 × 5 | <a href="../../media/fasteners/pb2-5-phillips-pan-head-self-tapping-screw.png"><img src="../../media/fasteners/pb2-5-phillips-pan-head-self-tapping-screw.png" alt="PB2.0 × 5 十字槽盘头自攻螺钉示意图" width="90"></a> | 黑色表面，加硬 | 46 |
+| 29 | 十字槽盘头螺钉 | M2 × 4.5 | <a href="../../media/fasteners/m2-4-5-phillips-pan-head-screw.png"><img src="../../media/fasteners/m2-4-5-phillips-pan-head-screw.png" alt="M2 × 4.5 十字槽盘头螺钉示意图" width="90"></a> | 黑色表面；靠近末端的约 2/3 螺纹段预涂蓝色锁固胶 | 35 |
+| 30 | 螺母 | M3 | <a href="../../media/fasteners/m3-nut.png"><img src="../../media/fasteners/m3-nut.png" alt="M3 螺母示意图" width="90"></a> | 黑色表面 | 5 |
+| 31 | 垫片 | M3（3 × 6 × 0.5 mm） | <a href="../../media/fasteners/m3-6-0-5-stainless-washer.png"><img src="../../media/fasteners/m3-6-0-5-stainless-washer.png" alt="M3（3 × 6 × 0.5 mm） 垫片示意图" width="90"></a> | 不锈钢 | 1 |
 
 发现资料错误或需要帮助？请通过 [Support 支持中心](https://fashionstar.com.hk/support/) 联系我们，并注明型号及对应文件或条目。

diff --git a/hardware/102-ld/README.zh.md b/hardware/102-ld/README.zh.md
@@ -36,7 +36,7 @@
 
 打印件的“型号／规格”与 STEP、STL 及独立 3MF 的文件名主体一致（不含扩展名）。BOM 中的打印参数仅供参考，尚未完成实物打印验证。
 
-螺钉图片为 AI 生成的外观示意图，规格以表格文字为准；点击图片可放大查看。
+紧固件图片为 AI 生成的外观示意图，规格以表格文字为准；点击图片可放大查看。
 
 | 序号 | 品名 | 型号／规格 | 图片 | 描述 | 数量 |
 | :---: | --- | --- | :---: | --- | :---: |
@@ -58,15 +58,15 @@
 | 16 | 电路板 | UC-01 | <img src="../../media/uc-01-primary.webp" alt="UC-01" width="90"> | DC 电源线：0.75 mm²，5.5 × 2.1 mm 母头，0.15 m | 1 |
 | 17 | 舵机连接线 | PH2.0 (PH-3Y)<br>120 mm | <a href="../../media/ph-3y-servo-cable-120mm.png"><img src="../../media/ph-3y-servo-cable-120mm.png" alt="PH2.0 120 mm 舵机连接线" width="90"></a> | 黑色硅胶绝缘排线，外覆黑色编织护套；两端线序反向；每根导体 60 × Ø0.08 mm（约 22 AWG） | 5 |
 | 18 | 舵机连接线 | PH2.0 (PH-3Y)<br>200 mm | <a href="../../media/ph-3y-servo-cable-200mm.png"><img src="../../media/ph-3y-servo-cable-200mm.png" alt="PH2.0 200 mm 舵机连接线" width="90"></a> | 黑色硅胶绝缘排线，外覆黑色编织护套；两端线序反向；每根导体 60 × Ø0.08 mm（约 22 AWG） | 2 |
-| 19 | 内六角圆柱头螺钉 | M3 × 10 | <a href="../../media/fasteners/m3-10-socket-head-cap-screw.png"><img src="../../media/fasteners/m3-10-socket-head-cap-screw.png" alt="M3 × 10 内六角圆柱头螺钉示意图" width="90"></a> | 黑色表面，强度等级 12.9 | 1 |
-| 20 | 内六角圆柱头螺钉 | M3 × 22 | <a href="../../media/fasteners/m3-22-socket-head-cap-screw.png"><img src="../../media/fasteners/m3-22-socket-head-cap-screw.png" alt="M3 × 22 内六角圆柱头螺钉示意图" width="90"></a> | 黑色表面 | 4 |
-| 21 | 十字槽盘头螺钉 | M3 × 10 | 待补 | 黑色表面，加硬 | 1 |
-| 22 | 十字槽自攻螺钉 | PB2.0 × 5 | 待补 | 黑色表面，加硬 | 39 |
-| 23 | 十字槽盘头螺钉 | M2 × 4.5 | <a href="../../media/fasteners/m2-4-5-phillips-pan-head-screw.png"><img src="../../media/fasteners/m2-4-5-phillips-pan-head-screw.png" alt="M2 × 4.5 十字槽盘头螺钉示意图" width="90"></a> | 黑色表面，螺纹预涂锁固胶 | 35 |
-| 24 | 内六角圆柱头螺钉 | M2 × 8 | <a href="../../media/fasteners/m2-8-socket-head-cap-screw.png"><img src="../../media/fasteners/m2-8-socket-head-cap-screw.png" alt="M2 × 8 内六角圆柱头螺钉示意图" width="90"></a> | 黑色表面 | 16 |
-| 25 | 内六角圆柱头螺钉 | M2 × 10 | 待补 | 黑色表面 | 8 |
-| 26 | 十字槽沉头自攻螺钉 | 3 × 12 mm | <a href="../../media/fasteners/3-12-phillips-flat-head-self-tapping-screw.png"><img src="../../media/fasteners/3-12-phillips-flat-head-self-tapping-screw.png" alt="3 × 12 mm 十字槽沉头自攻螺钉示意图" width="90"></a> | 银色表面 | 2 |
-| 27 | 螺母 | M3 | 待补 | 黑色表面 | 5 |
-| 28 | 垫片 | M3（3 × 6 × 0.5 mm） | 待补 | 不锈钢 | 1 |
+| 19 | 内六角圆柱头螺钉 | M3 × 22 | <a href="../../media/fasteners/m3-22-socket-head-cap-screw.png"><img src="../../media/fasteners/m3-22-socket-head-cap-screw.png" alt="M3 × 22 内六角圆柱头螺钉示意图" width="90"></a> | 黑色表面 | 4 |
+| 20 | 内六角圆柱头螺钉 | M3 × 10 | <a href="../../media/fasteners/m3-10-socket-head-cap-screw.png"><img src="../../media/fasteners/m3-10-socket-head-cap-screw.png" alt="M3 × 10 内六角圆柱头螺钉示意图" width="90"></a> | 黑色表面，强度等级 12.9 | 1 |
+| 21 | 内六角圆柱头螺钉 | M2 × 10 | <a href="../../media/fasteners/m2-10-socket-head-cap-screw.png"><img src="../../media/fasteners/m2-10-socket-head-cap-screw.png" alt="M2 × 10 内六角圆柱头螺钉示意图" width="90"></a> | 黑色表面 | 8 |
+| 22 | 内六角圆柱头螺钉 | M2 × 8 | <a href="../../media/fasteners/m2-8-socket-head-cap-screw.png"><img src="../../media/fasteners/m2-8-socket-head-cap-screw.png" alt="M2 × 8 内六角圆柱头螺钉示意图" width="90"></a> | 黑色表面 | 16 |
+| 23 | 十字槽沉头自攻螺钉 | 3 × 12 mm | <a href="../../media/fasteners/3-12-phillips-flat-head-self-tapping-screw.png"><img src="../../media/fasteners/3-12-phillips-flat-head-self-tapping-screw.png" alt="3 × 12 mm 十字槽沉头自攻螺钉示意图" width="90"></a> | 银色表面 | 2 |
+| 24 | 十字槽盘头螺钉 | M3 × 10 | <a href="../../media/fasteners/m3-10-phillips-pan-head-screw.png"><img src="../../media/fasteners/m3-10-phillips-pan-head-screw.png" alt="M3 × 10 十字槽盘头螺钉示意图" width="90"></a> | 黑色表面，加硬 | 1 |
+| 25 | 十字槽盘头自攻螺钉 | PB2.0 × 5 | <a href="../../media/fasteners/pb2-5-phillips-pan-head-self-tapping-screw.png"><img src="../../media/fasteners/pb2-5-phillips-pan-head-self-tapping-screw.png" alt="PB2.0 × 5 十字槽盘头自攻螺钉示意图" width="90"></a> | 黑色表面，加硬 | 39 |
+| 26 | 十字槽盘头螺钉 | M2 × 4.5 | <a href="../../media/fasteners/m2-4-5-phillips-pan-head-screw.png"><img src="../../media/fasteners/m2-4-5-phillips-pan-head-screw.png" alt="M2 × 4.5 十字槽盘头螺钉示意图" width="90"></a> | 黑色表面；靠近末端的约 2/3 螺纹段预涂蓝色锁固胶 | 35 |
+| 27 | 螺母 | M3 | <a href="../../media/fasteners/m3-nut.png"><img src="../../media/fasteners/m3-nut.png" alt="M3 螺母示意图" width="90"></a> | 黑色表面 | 5 |
+| 28 | 垫片 | M3（3 × 6 × 0.5 mm） | <a href="../../media/fasteners/m3-6-0-5-stainless-washer.png"><img src="../../media/fasteners/m3-6-0-5-stainless-washer.png" alt="M3（3 × 6 × 0.5 mm） 垫片示意图" width="90"></a> | 不锈钢 | 1 |
 
 发现资料错误或需要帮助？请通过 [Support 支持中心](https://fashionstar.com.hk/support/) 联系我们，并注明型号及对应文件或条目。
